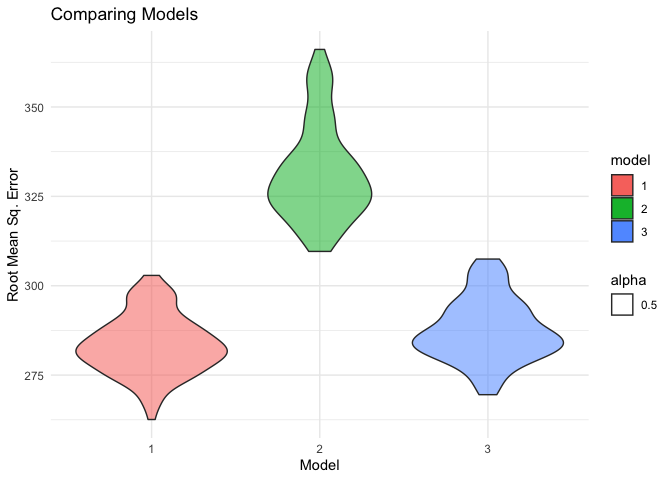
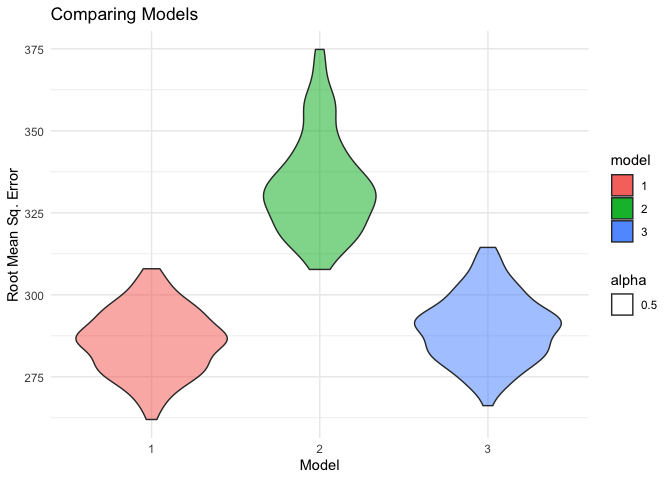
estimating values for log(b0*b1) and R sq., plotting the distributions, calculating CIs, edits to descriptions above, checking missing vals for prob 1

diff --git a/hw6_jo2570.md b/hw6_jo2570.md
@@ -22,12 +22,29 @@ bw_data = read_csv("./data/birthweight.csv") %>%
 
     ## See spec(...) for full column specifications.
 
+Checking for missing data:
+
+``` r
+filter_all(
+  bw_data, any_vars(is.na(.))
+)
+```
+
+    ## # A tibble: 0 x 20
+    ## # … with 20 variables: babysex <fct>, bhead <dbl>, blength <dbl>,
+    ## #   bwt <dbl>, delwt <dbl>, fincome <dbl>, frace <fct>, gaweeks <dbl>,
+    ## #   malform <fct>, menarche <dbl>, mheight <dbl>, momage <dbl>,
+    ## #   mrace <fct>, parity <dbl>, pnumlbw <dbl>, pnumsga <dbl>, ppbmi <dbl>,
+    ## #   ppwt <dbl>, smoken <dbl>, wtgain <dbl>
+
+No missing values are present.
+
 Fitting a regression model for birthweight:
 
 We fit a regression model for baby birthweight using the hypothesis that
 test how characteristics of the baby affect its birthweight. We fit a
-model with the main predictors baby characteristics and adjust for
-mother characteristics thay may affect her health and health of the
+model with the main predictors being baby characteristics and adjust for
+some mother characteristics thay may affect her health and health of the
 baby. We want to keep the model parsimonious, ensure no 2 predictor
 variables measure the same characteristic and/or are very closely
 associated with each
@@ -112,7 +129,7 @@ bw_data %>%
   theme_set(theme_minimal() + theme())
 ```
 
-![](hw6_jo2570_files/figure-gfm/unnamed-chunk-4-1.png)<!-- -->
+![](hw6_jo2570_files/figure-gfm/unnamed-chunk-5-1.png)<!-- -->
 
 Comparing models:
 
@@ -205,7 +222,11 @@ cv_df %>%
    )
 ```
 
-![](hw6_jo2570_files/figure-gfm/unnamed-chunk-7-1.png)<!-- -->
+![](hw6_jo2570_files/figure-gfm/unnamed-chunk-8-1.png)<!-- -->
+
+From the violin plot above we see that model fit\_final (model 1) has
+smallest root mean standard error and is thus the best model for
+predicting birthweight in this dataset.
 
 Problem 2:
 
@@ -271,7 +292,24 @@ bootstrap_results =
   janitor::clean_names() %>% 
   mutate(log = log(intercept*tmin)) %>% 
   select(strap_number, log)
+
+bootstrap_results
 ```
+
+    ## # A tibble: 5,000 x 2
+    ##    strap_number   log
+    ##           <int> <dbl>
+    ##  1            1  2.03
+    ##  2            2  2.02
+    ##  3            3  2.01
+    ##  4            4  2.01
+    ##  5            5  2.01
+    ##  6            6  2.03
+    ##  7            7  2.01
+    ##  8            8  2.03
+    ##  9            9  2.01
+    ## 10           10  1.98
+    ## # … with 4,990 more rows
 
 Estimating R sq. :
 
@@ -284,4 +322,87 @@ bootstrap_results_2 =
   select(-strap_sample, -models) %>% 
   unnest(cols = c(results)) %>% 
   select(strap_number, r.squared, adj.r.squared)
+
+bootstrap_results_2
 ```
+
+    ## # A tibble: 5,000 x 3
+    ##    strap_number r.squared adj.r.squared
+    ##           <int>     <dbl>         <dbl>
+    ##  1            1     0.909         0.909
+    ##  2            2     0.910         0.909
+    ##  3            3     0.902         0.901
+    ##  4            4     0.905         0.905
+    ##  5            5     0.904         0.904
+    ##  6            6     0.914         0.913
+    ##  7            7     0.909         0.909
+    ##  8            8     0.894         0.893
+    ##  9            9     0.908         0.908
+    ## 10           10     0.913         0.913
+    ## # … with 4,990 more rows
+
+PLotting the distribution of log(B0\*B1) and R-Squared estimates:
+
+``` r
+plot_1 =
+  ggplot(
+    data = bootstrap_results, 
+    aes(x = log, color = "orange")) +
+  geom_histogram() + 
+  labs(
+    title = "Distribution of Estimates for Log(B0*B1)",
+    x = "Log B0*B1",
+    y = "Count"
+    ) 
+
+plot_1
+```
+
+    ## `stat_bin()` using `bins = 30`. Pick better value with `binwidth`.
+
+![](hw6_jo2570_files/figure-gfm/unnamed-chunk-13-1.png)<!-- -->
+
+``` r
+plot_2 = 
+  ggplot(data = bootstrap_results_2, 
+         aes(x = r.squared, color = "orange")) + 
+  geom_histogram() + 
+  labs(
+    title = "Distribution of Estimates for R sq.",
+    x = "R-Squared",
+    y = "Count"
+    ) 
+
+plot_2
+```
+
+    ## `stat_bin()` using `bins = 30`. Pick better value with `binwidth`.
+
+![](hw6_jo2570_files/figure-gfm/unnamed-chunk-13-2.png)<!-- -->
+
+According to the plots above it appears the distrubution of both
+log(B0\*B1) and R-Squared estimates are aproximately normal.
+
+Identifing the 2.5% and 97.5% quantiles to provide a 95% confidence
+interval for log(B0\*B1) and R-Squared estimates:
+
+``` r
+bootstrap_results %>% 
+  pull(log) %>% 
+quantile(., probs = c(0.025, 0.975), na.rm = TRUE)
+```
+
+    ##     2.5%    97.5% 
+    ## 1.965107 2.058929
+
+``` r
+bootstrap_results_2 %>% 
+  pull(r.squared) %>% 
+quantile(., probs = c(0.025, 0.975), na.rm = TRUE)
+```
+
+    ##      2.5%     97.5% 
+    ## 0.8943659 0.9272833
+
+The 95% CI for log(b0\*b1) = (1.966, 2.059) and the 95% confidence
+interval for R-squared = (0.894, 0.927)
